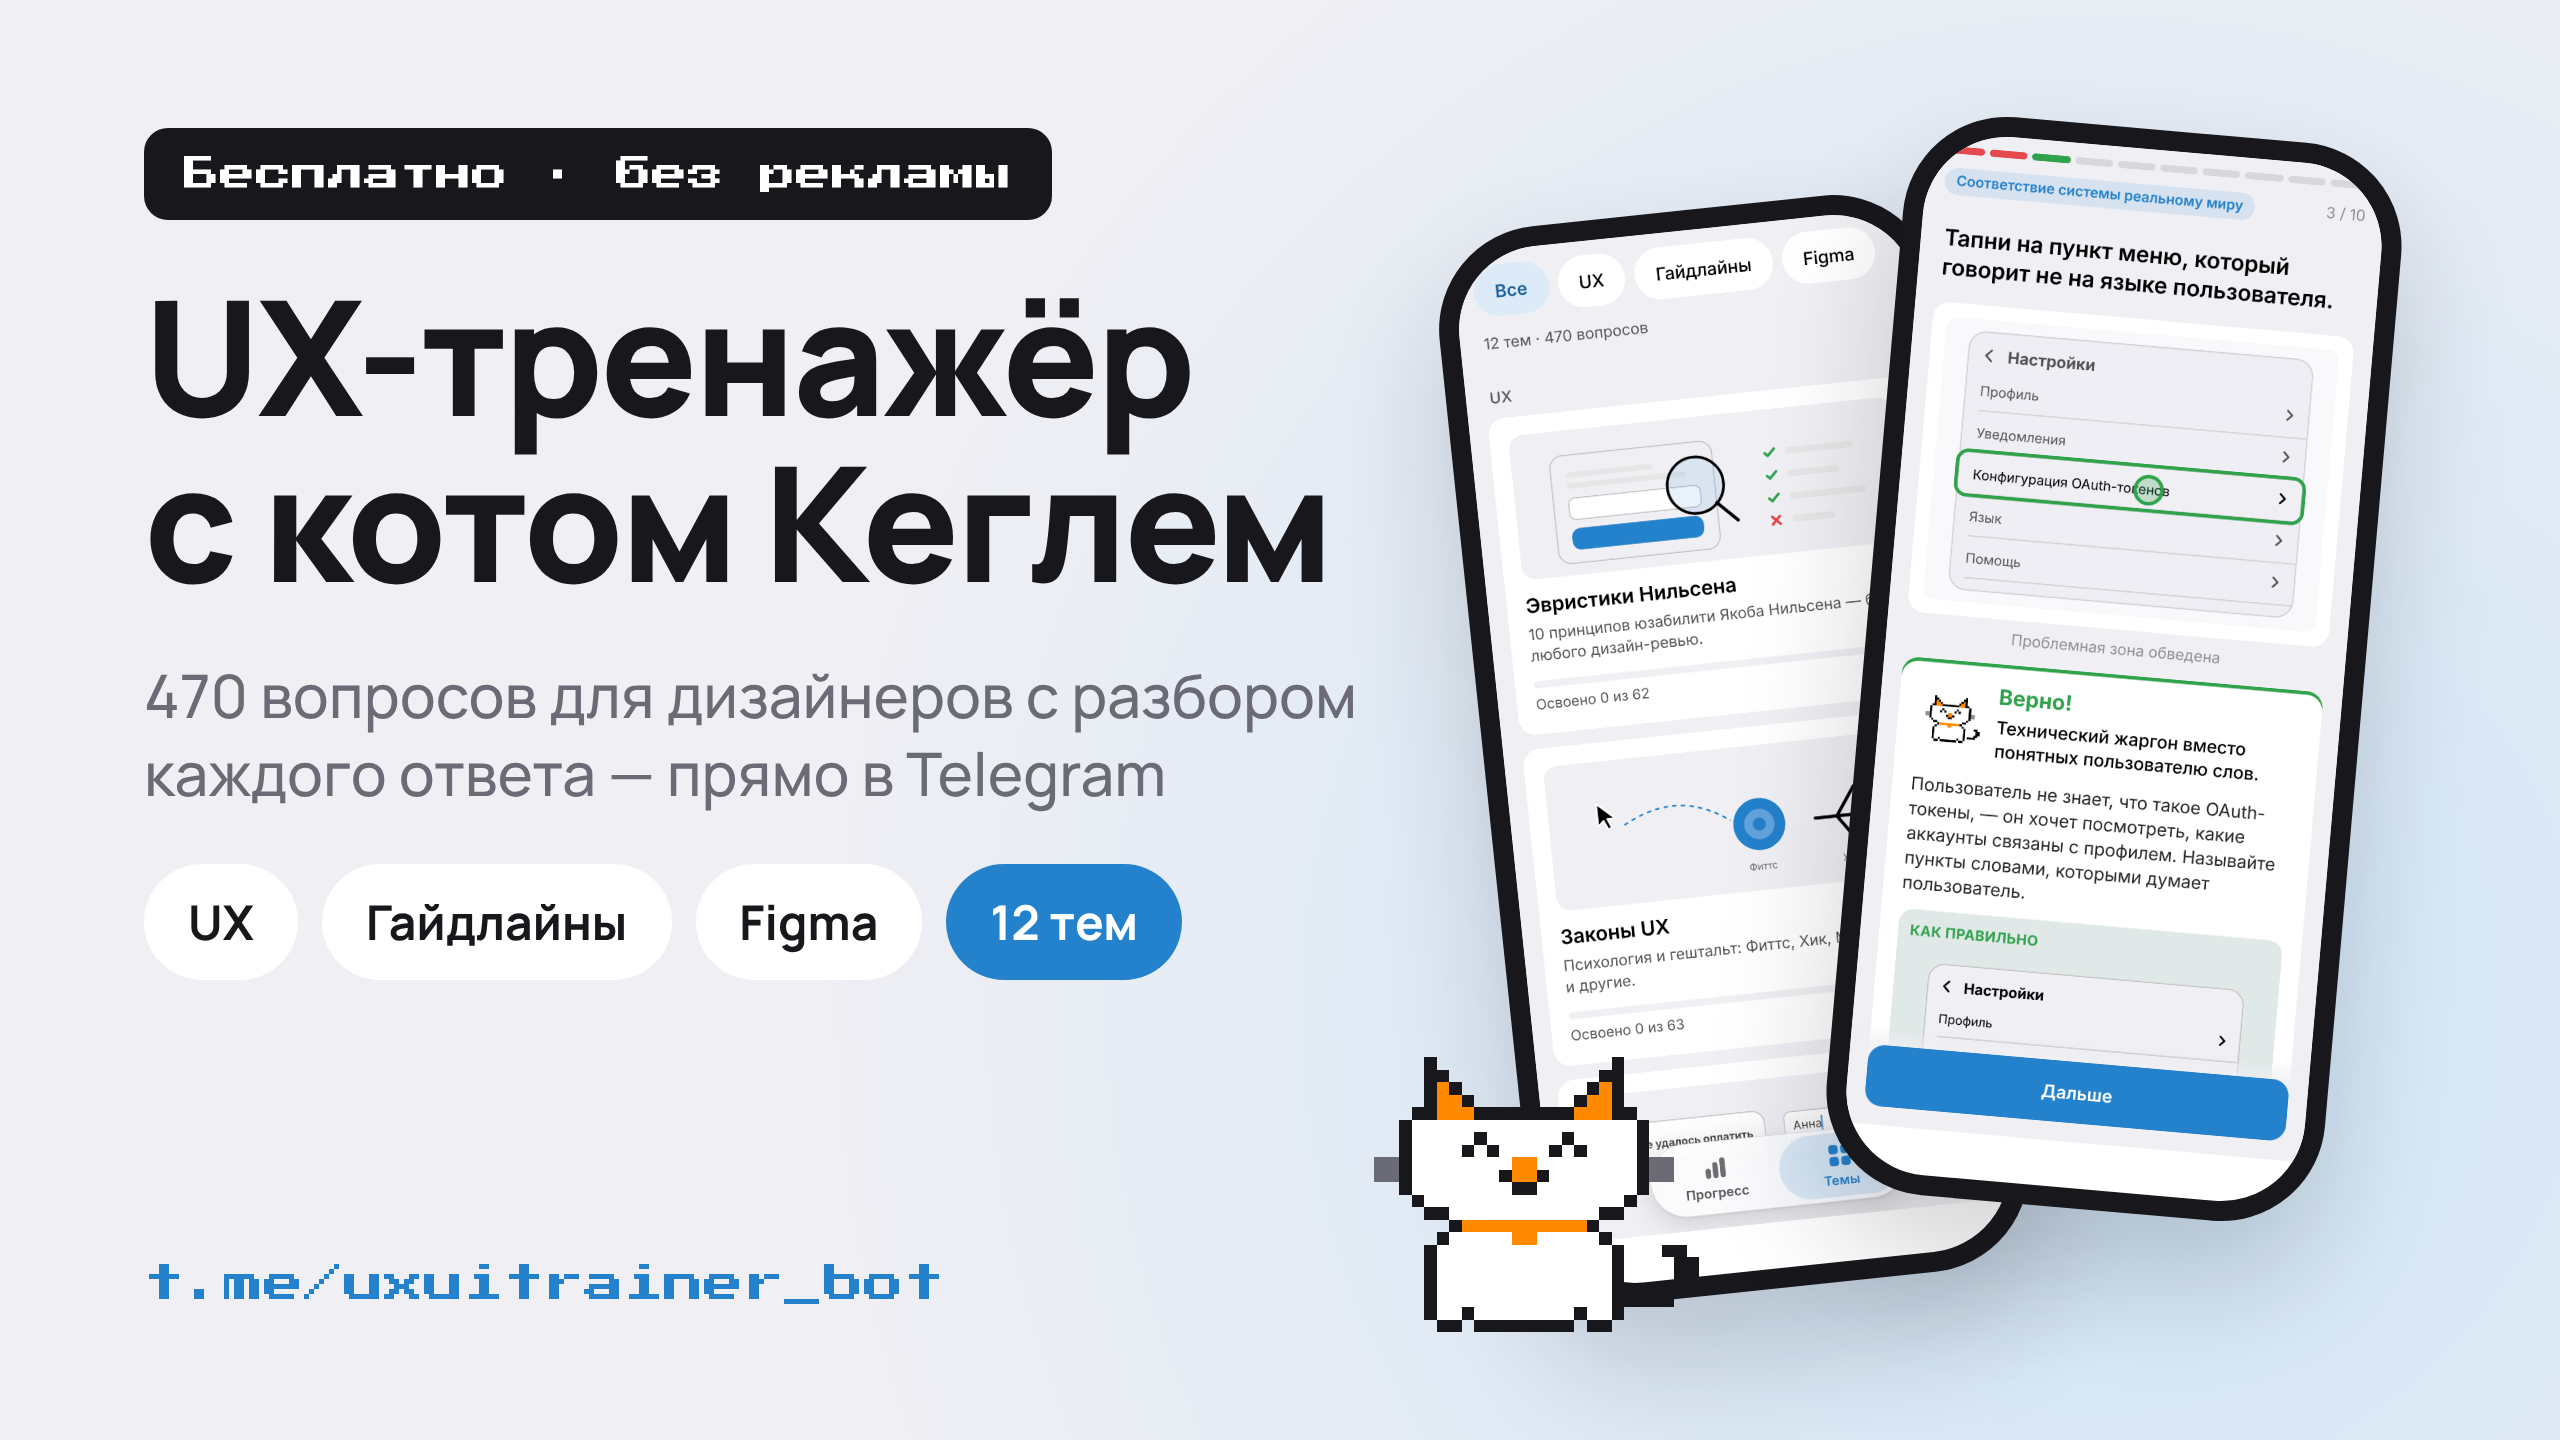
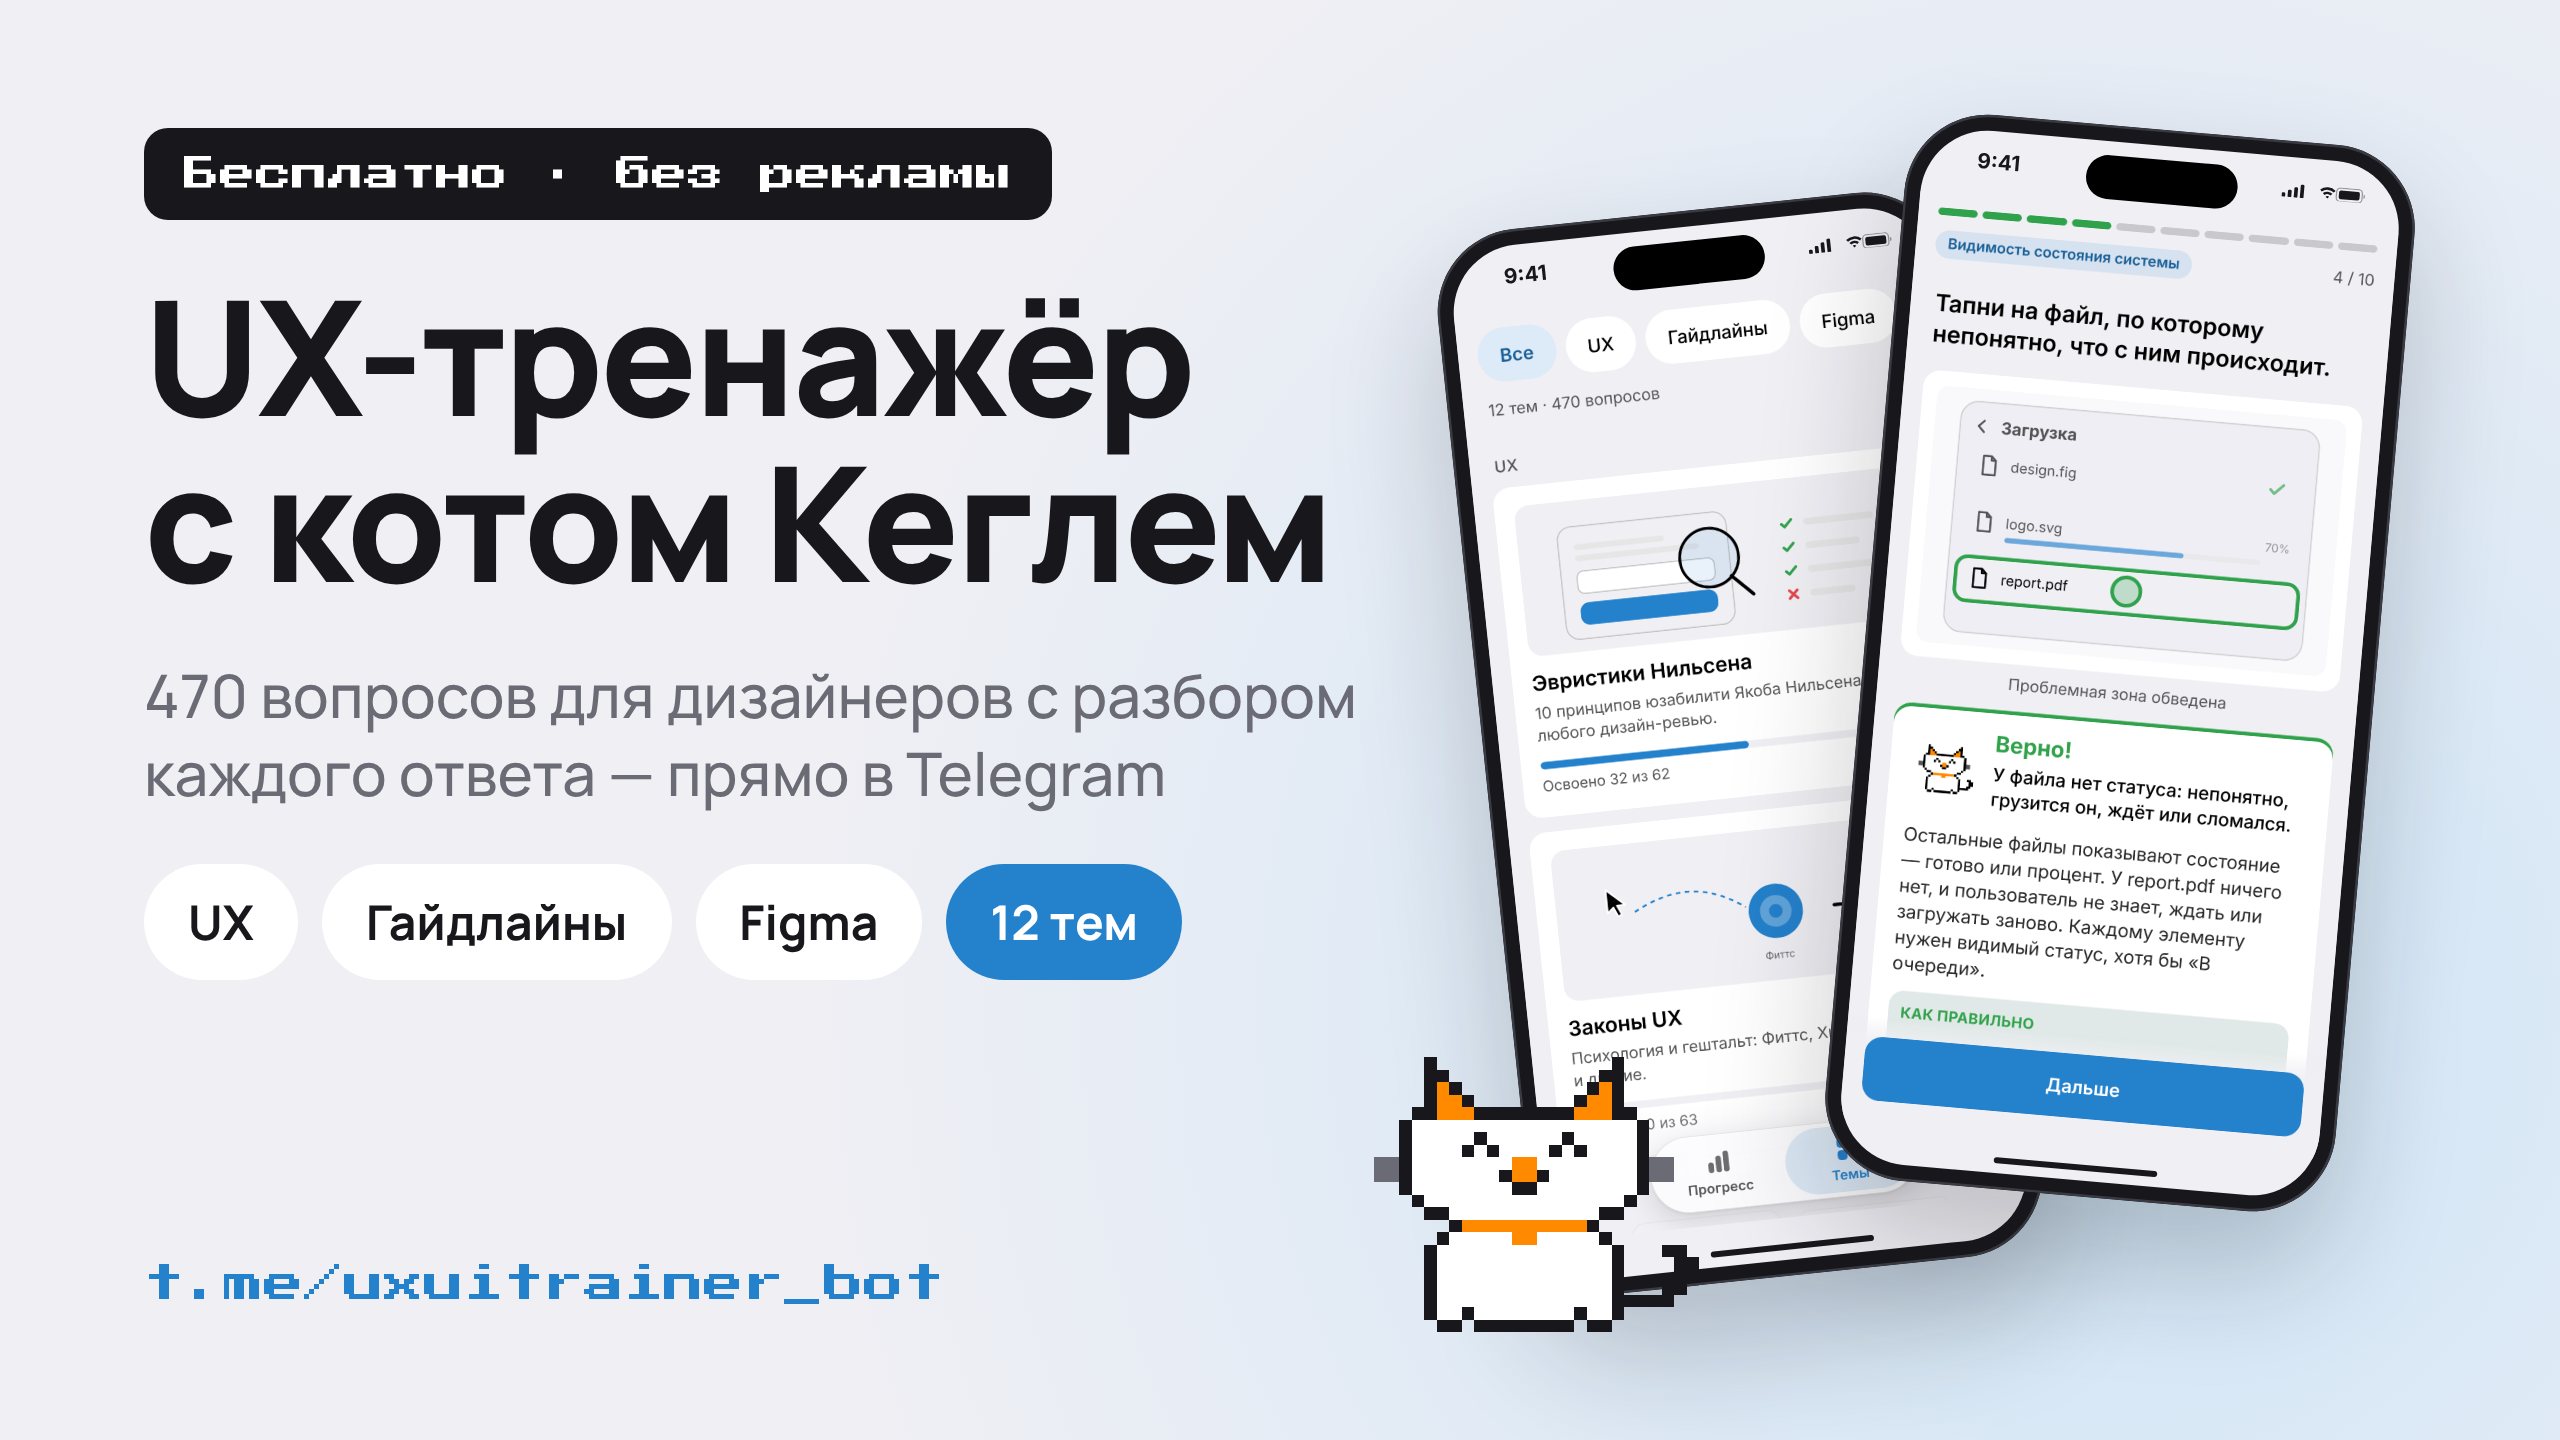
Анонс: мокап iPhone со статус-баром и безопасными зонами, свежие экраны
Claude-Session: https://claude.ai/code/session_01FvLuPphiuHiv3FLLXi82M7

Changed region(s): [[0.5625, 0.0625, 0.9688, 0.9062]]

diff --git a/web/src/post/Post.tsx b/web/src/post/Post.tsx
@@ -3,10 +3,37 @@
 import { questions, sections, tracks } from '../../../content';
 import { Cat } from '../Cat';
 import { plural, questionsWord } from '../format';
-import hotspot from '../carousel/shots/hotspot.png';
-import themes from '../carousel/shots/themes.png';
+import hotspot from './hotspot.png';
+import themes from './themes.png';
 
 const BOT_URL = 't.me/uxuitrainer_bot';
+
+/**
+ * iPhone 390×844 pt: статус-бар 54 pt, скриншот 390×756 (снят с этой высотой), индикатор Home 34 pt.
+ * Так интерфейс не заходит под скругления рамки и Dynamic Island.
+ */
+const Phone = ({ src, className }: { src: string; className: string }) => (
+  <div className={`mock ${className}`}>
+    <div className="mock__screen">
+      <div className="mock__status">
+        <span className="mock__time">9:41</span>
+        <span className="mock__island" />
+        <svg className="mock__icons" viewBox="0 0 68 12" aria-hidden>
+          <rect x="0" y="8" width="3" height="4" rx="1" />
+          <rect x="5" y="5.5" width="3" height="6.5" rx="1" />
+          <rect x="10" y="3" width="3" height="9" rx="1" />
+          <rect x="15" y="0.5" width="3" height="11.5" rx="1" />
+          <path d="M31 3.2a9.6 9.6 0 0 1 12.6 0l-1.4 1.5a7.6 7.6 0 0 0-9.8 0zM33.4 5.8a6 6 0 0 1 7.8 0l-1.4 1.5a4 4 0 0 0-5 0zM35.8 8.4a2.4 2.4 0 0 1 3 0L37.3 10z" />
+          <rect x="44.5" y="0.5" width="21" height="11" rx="3.2" fill="none" stroke="currentColor" strokeOpacity="0.4" />
+          <rect x="46.5" y="2.5" width="17" height="7" rx="1.6" />
+          <path d="M66.6 4.2v3.6a1.9 1.9 0 0 0 0-3.6z" opacity="0.4" />
+        </svg>
+      </div>
+      <img src={src} alt="" />
+      <div className="mock__home" />
+    </div>
+  </div>
+);
 
 export function Post() {
   return (
@@ -31,12 +58,8 @@ export function Post() {
         <span className="post__link pixel">{BOT_URL}</span>
       </div>
       <div className="post__art">
-        <div className="phone post__phone post__phone--back">
-          <img src={themes} alt="" />
-        </div>
-        <div className="phone post__phone post__phone--front">
-          <img src={hotspot} alt="" />
-        </div>
+        <Phone src={themes} className="post__phone post__phone--back" />
+        <Phone src={hotspot} className="post__phone post__phone--front" />
         <div className="post__cat">
           <Cat mood="happy" size={200} />
         </div>

diff --git a/web/src/post/post.css b/web/src/post/post.css
@@ -71,7 +71,77 @@ body {
 
 .post__phone {
   position: absolute;
-  width: 250px;
+}
+
+/* Мокап iPhone. Размеры в долях ширины экрана 390 pt: --u = 1 pt. */
+.mock {
+  --u: calc(240px / 390);
+  padding: calc(13 * var(--u));
+  border-radius: calc(68 * var(--u));
+  background: #17171c;
+  box-shadow:
+    inset 0 0 0 calc(2 * var(--u)) #3a3a42,
+    0 30px 60px rgba(23, 23, 28, 0.22);
+}
+
+.mock__screen {
+  position: relative;
+  width: calc(390 * var(--u));
+  height: calc(844 * var(--u));
+  border-radius: calc(55 * var(--u));
+  overflow: hidden;
+  background: var(--bg);
+  display: flex;
+  flex-direction: column;
+}
+
+.mock__screen img {
+  display: block;
+  width: 100%;
+}
+
+.mock__status {
+  position: relative;
+  flex: none;
+  height: calc(54 * var(--u));
+  display: flex;
+  align-items: center;
+  justify-content: space-between;
+  padding: 0 calc(30 * var(--u)) 0 calc(44 * var(--u));
+  color: var(--text);
+}
+
+.mock__time {
+  font-family: -apple-system, 'Inter', 'Manrope', sans-serif;
+  font-size: calc(17 * var(--u));
+  font-weight: 700;
+}
+
+.mock__island {
+  position: absolute;
+  left: 50%;
+  top: calc(11 * var(--u));
+  width: calc(124 * var(--u));
+  height: calc(36 * var(--u));
+  transform: translateX(-50%);
+  border-radius: 999px;
+  background: #000;
+}
+
+.mock__icons {
+  width: calc(68 * var(--u));
+  fill: currentColor;
+}
+
+.mock__home {
+  position: absolute;
+  left: 50%;
+  bottom: calc(8 * var(--u));
+  width: calc(134 * var(--u));
+  height: calc(5 * var(--u));
+  transform: translateX(-50%);
+  border-radius: 999px;
+  background: var(--text);
 }
 
 .post__phone--back {
